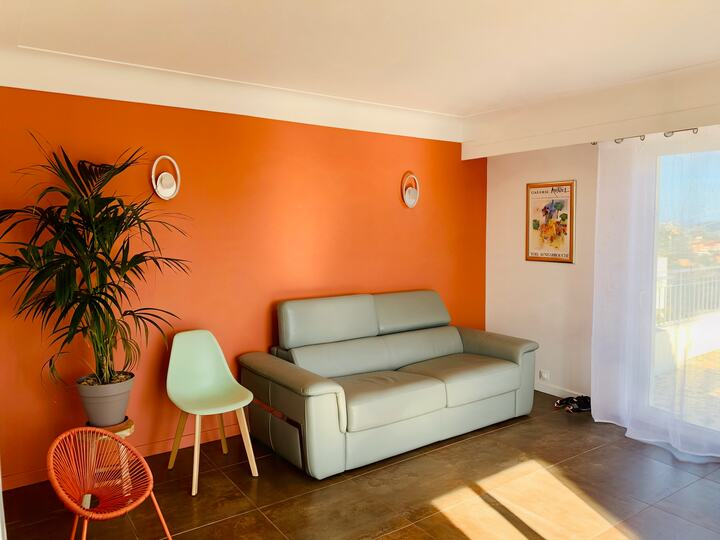
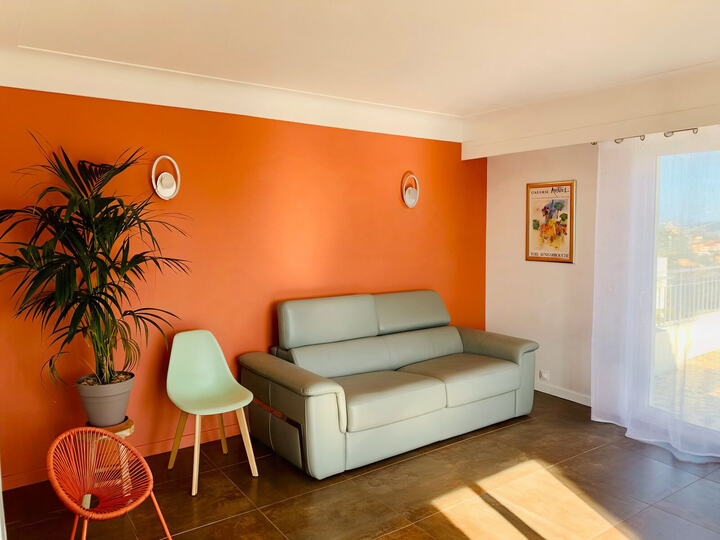
Bail mobilité v2 : carte Le salon remise sur le canapé-lit ouvert ; canapé fermé (version nettoyée par Géraldine) dans la galerie seulement (26/11)

diff --git a/site/bail-mobilite-v2/index.html b/site/bail-mobilite-v2/index.html
@@ -71,7 +71,7 @@
   <p class="v2-lead v2-une-ligne">Au premier étage d'une villa, un appartement traversant de 77,51 m² avec deux chambres, deux salles d'eau et deux terrasses.</p>
 </div></section>
 <section class="v2-blanc v2-visite"><div class="v2-l">
-  <div class="v2-cartes"><figure class="v2-carte"><img src="../assets/img/visite/salon-ferme.jpg" alt="Le salon et son canapé replié, contre le mur orange" loading="lazy"><figcaption><svg class="pic v2-pic" aria-hidden="true"><use href="#i-canape"/></svg><h3>Le salon</h3><p>Un canapé-lit dans la pièce de vie.</p></figcaption></figure><figure class="v2-carte"><img src="../assets/img/chambre-1-fenetre.jpg" alt="La première chambre, son lit double et sa fenêtre" loading="lazy"><figcaption><svg class="pic v2-pic" aria-hidden="true"><use href="#i-lit"/></svg><h3>La première chambre</h3><p>13,91 m², un lit double et une salle d&#x27;eau privative avec douche à l&#x27;italienne.</p></figcaption></figure><figure class="v2-carte"><img src="../assets/img/chambre-2-lits.jpg" alt="La seconde chambre et ses deux lits simples" loading="lazy"><figcaption><svg class="pic v2-pic" aria-hidden="true"><use href="#i-ordi"/></svg><h3>La seconde chambre</h3><p>12,88 m², deux lits simples de 80 × 200 cm ou un lit double de 160 cm, et un poste de travail. La fibre est installée dans le logement.</p></figcaption></figure><figure class="v2-carte"><img src="../assets/img/salle-eau-douche.jpg" alt="La grande salle d&#x27;eau" loading="lazy"><figcaption><svg class="pic v2-pic" aria-hidden="true"><use href="#i-douche"/></svg><h3>Les salles d&#x27;eau</h3><p>Deux salles d&#x27;eau, dont une privative, et un WC indépendant.</p></figcaption></figure><figure class="v2-carte"><img src="../assets/img/visite/piscine-3.jpg" alt="La piscine partagée et le jardin de la villa" loading="lazy"><figcaption><svg class="pic v2-pic" aria-hidden="true"><use href="#i-piscine"/></svg><h3>La piscine</h3><p>Une piscine partagée dans le jardin de la villa, accessible selon les horaires prévus.</p></figcaption></figure><div class="v2-carte v2-carte-bleue"><svg class="pic v2-pic" aria-hidden="true"><use href="#i-details"/></svg><h3>Les détails qui comptent</h3><ul class="v2-liste"><li><svg class="pic-s" aria-hidden="true"><use href="#i-machine"/></svg><span>Lave-linge</span></li><li><svg class="pic-s" aria-hidden="true"><use href="#i-seche"/></svg><span>Sèche-linge</span></li><li><svg class="pic-s" aria-hidden="true"><use href="#i-linge"/></svg><span>Linge de maison fourni avec rechange</span></li><li><svg class="pic-s" aria-hidden="true"><use href="#i-clim"/></svg><span>Climatisation réversible</span></li><li><svg class="pic-s" aria-hidden="true"><use href="#i-parking"/></svg><span>Une place de parking privée</span></li></ul></div></div>
+  <div class="v2-cartes"><figure class="v2-carte"><img src="../assets/img/salon-vue.jpg" alt="Le salon et son canapé-lit, ouvert sur la terrasse" loading="lazy"><figcaption><svg class="pic v2-pic" aria-hidden="true"><use href="#i-canape"/></svg><h3>Le salon</h3><p>Un canapé-lit dans la pièce de vie.</p></figcaption></figure><figure class="v2-carte"><img src="../assets/img/chambre-1-fenetre.jpg" alt="La première chambre, son lit double et sa fenêtre" loading="lazy"><figcaption><svg class="pic v2-pic" aria-hidden="true"><use href="#i-lit"/></svg><h3>La première chambre</h3><p>13,91 m², un lit double et une salle d&#x27;eau privative avec douche à l&#x27;italienne.</p></figcaption></figure><figure class="v2-carte"><img src="../assets/img/chambre-2-lits.jpg" alt="La seconde chambre et ses deux lits simples" loading="lazy"><figcaption><svg class="pic v2-pic" aria-hidden="true"><use href="#i-ordi"/></svg><h3>La seconde chambre</h3><p>12,88 m², deux lits simples de 80 × 200 cm ou un lit double de 160 cm, et un poste de travail. La fibre est installée dans le logement.</p></figcaption></figure><figure class="v2-carte"><img src="../assets/img/salle-eau-douche.jpg" alt="La grande salle d&#x27;eau" loading="lazy"><figcaption><svg class="pic v2-pic" aria-hidden="true"><use href="#i-douche"/></svg><h3>Les salles d&#x27;eau</h3><p>Deux salles d&#x27;eau, dont une privative, et un WC indépendant.</p></figcaption></figure><figure class="v2-carte"><img src="../assets/img/visite/piscine-3.jpg" alt="La piscine partagée et le jardin de la villa" loading="lazy"><figcaption><svg class="pic v2-pic" aria-hidden="true"><use href="#i-piscine"/></svg><h3>La piscine</h3><p>Une piscine partagée dans le jardin de la villa, accessible selon les horaires prévus.</p></figcaption></figure><div class="v2-carte v2-carte-bleue"><svg class="pic v2-pic" aria-hidden="true"><use href="#i-details"/></svg><h3>Les détails qui comptent</h3><ul class="v2-liste"><li><svg class="pic-s" aria-hidden="true"><use href="#i-machine"/></svg><span>Lave-linge</span></li><li><svg class="pic-s" aria-hidden="true"><use href="#i-seche"/></svg><span>Sèche-linge</span></li><li><svg class="pic-s" aria-hidden="true"><use href="#i-linge"/></svg><span>Linge de maison fourni avec rechange</span></li><li><svg class="pic-s" aria-hidden="true"><use href="#i-clim"/></svg><span>Climatisation réversible</span></li><li><svg class="pic-s" aria-hidden="true"><use href="#i-parking"/></svg><span>Une place de parking privée</span></li></ul></div></div>
   <details class="v2-galerie-tout"><summary>Voir toutes les photos (23)</summary><div class="v2-galerie-visite"><div class="v2-galerie-groupe"><h3>Le séjour</h3><div class="galerie v2-gg"><a href="../assets/img/visite/salon-ferme.jpg"><img src="../assets/img/visite/salon-ferme-m.jpg" alt="Le coin salon, canapé-lit replié" loading="lazy"></a><a href="../assets/img/visite/salon-1.jpg"><img src="../assets/img/visite/salon-1-m.jpg" alt="Le coin salon, canapé-lit déplié" loading="lazy"></a></div></div><div class="v2-galerie-groupe"><h3>La cuisine</h3><div class="galerie v2-gg"><a href="../assets/img/visite/cuisine-1.jpg"><img src="../assets/img/visite/cuisine-1-m.jpg" alt="La cuisine ouverte et son îlot, face au séjour" loading="lazy"></a><a href="../assets/img/visite/cuisine-2.jpg"><img src="../assets/img/visite/cuisine-2-m.jpg" alt="La cuisine : plan de travail, four, micro-ondes, réfrigérateur" loading="lazy"></a><a href="../assets/img/visite/cuisine-3.jpg"><img src="../assets/img/visite/cuisine-3-m.jpg" alt="L&#x27;îlot de la cuisine" loading="lazy"></a><a href="../assets/img/visite/cuisine-4.jpg"><img src="../assets/img/visite/cuisine-4-m.jpg" alt="La cuisine et l&#x27;entrée" loading="lazy"></a><a href="../assets/img/visite/cuisine-5.jpg"><img src="../assets/img/visite/cuisine-5-m.jpg" alt="Four, micro-ondes et réfrigérateur-congélateur" loading="lazy"></a><a href="../assets/img/visite/cuisine-6.jpg"><img src="../assets/img/visite/cuisine-6-m.jpg" alt="Plaque à induction et ustensiles" loading="lazy"></a><a href="../assets/img/visite/cuisine-7.jpg"><img src="../assets/img/visite/cuisine-7-m.jpg" alt="Préparer le dîner dans la cuisine" loading="lazy"></a></div></div><div class="v2-galerie-groupe"><h3>La première chambre et sa salle d&#x27;eau privative</h3><div class="galerie v2-gg"><a href="../assets/img/visite/chambre1-1.jpg"><img src="../assets/img/visite/chambre1-1-m.jpg" alt="La première chambre, son lit double et sa fenêtre" loading="lazy"></a><a href="../assets/img/visite/chambre1-2.jpg"><img src="../assets/img/visite/chambre1-2-m.jpg" alt="La première chambre et ses rangements" loading="lazy"></a><a href="../assets/img/visite/sde-privative.jpg"><img src="../assets/img/visite/sde-privative-m.jpg" alt="La salle d&#x27;eau privative, douche à l&#x27;italienne" loading="lazy"></a></div></div><div class="v2-galerie-groupe"><h3>La seconde chambre</h3><div class="galerie v2-gg"><a href="../assets/img/visite/chambre2-2.jpg"><img src="../assets/img/visite/chambre2-2-m.jpg" alt="La seconde chambre côté fenêtre" loading="lazy"></a><a href="../assets/img/visite/chambre2-3.jpg"><img src="../assets/img/visite/chambre2-3-m.jpg" alt="La seconde chambre, côté mur" loading="lazy"></a></div></div><div class="v2-galerie-groupe"><h3>La grande salle d&#x27;eau et le WC</h3><div class="galerie v2-gg"><a href="../assets/img/visite/sde-grande.jpg"><img src="../assets/img/visite/sde-grande-m.jpg" alt="La grande salle d&#x27;eau" loading="lazy"></a><a href="../assets/img/visite/wc.jpg"><img src="../assets/img/visite/wc-m.jpg" alt="Le WC indépendant" loading="lazy"></a></div></div><div class="v2-galerie-groupe"><h3>Les terrasses</h3><div class="galerie v2-gg"><a href="../assets/img/visite/terrasse-2.jpg"><img src="../assets/img/visite/terrasse-2-m.jpg" alt="La terrasse face à la mer" loading="lazy"></a><a href="../assets/img/visite/terrasse-3.jpg"><img src="../assets/img/visite/terrasse-3-m.jpg" alt="La table de la terrasse" loading="lazy"></a><a href="../assets/img/visite/apero-3.jpg"><img src="../assets/img/visite/apero-3-m.jpg" alt="La terrasse et la mer" loading="lazy"></a><a href="../assets/img/visite/apero-4.jpg"><img src="../assets/img/visite/apero-4-m.jpg" alt="Les tables de la terrasse vues d&#x27;en haut" loading="lazy"></a><a href="../assets/img/visite/vue.jpg"><img src="../assets/img/visite/vue-m.jpg" alt="La vue sur la Baie des Anges" loading="lazy"></a></div></div><div class="v2-galerie-groupe"><h3>Le jardin et la piscine partagée</h3><div class="galerie v2-gg"><a href="../assets/img/visite/piscine-3.jpg"><img src="../assets/img/visite/piscine-3-m.jpg" alt="La piscine partagée et le jardin" loading="lazy"></a><a href="../assets/img/visite/piscine-ciel.jpg"><img src="../assets/img/visite/piscine-ciel-m.jpg" alt="La piscine et le jardin vus du ciel" loading="lazy"></a></div></div></div></details>
 </div></section>
 

diff --git a/outils/build_v2.py b/outils/build_v2.py
@@ -145,7 +145,7 @@ def bloc(photo_html, titre_html, contenu, inverse=False, ton="bleu", ident="", p
 # Visite resserrée (retour de Brain validé par Géraldine, 26/11/2026) : chambres, salles d'eau, salon, piscine, équipement.
 # Le séjour, la cuisine et les terrasses sont déjà dans le trio : ils ne reviennent pas ici.
 CARTES = [
-    ("visite/salon-ferme", "canape", "Le salon", "Un canapé-lit dans la pièce de vie."),
+    ("salon-vue", "canape", "Le salon", "Un canapé-lit dans la pièce de vie."),
     ("chambre-1-fenetre", "lit", "La première chambre", "13,91 m², un lit double et une salle d'eau privative avec douche à l'italienne."),
     ("chambre-2-lits", "ordi", "La seconde chambre", "12,88 m², deux lits simples de 80 × 200 cm ou un lit double de 160 cm, et un poste de travail. La fibre est installée dans le logement."),
     ("salle-eau-douche", "douche", "Les salles d'eau", "Deux salles d'eau, dont une privative, et un WC indépendant."),
